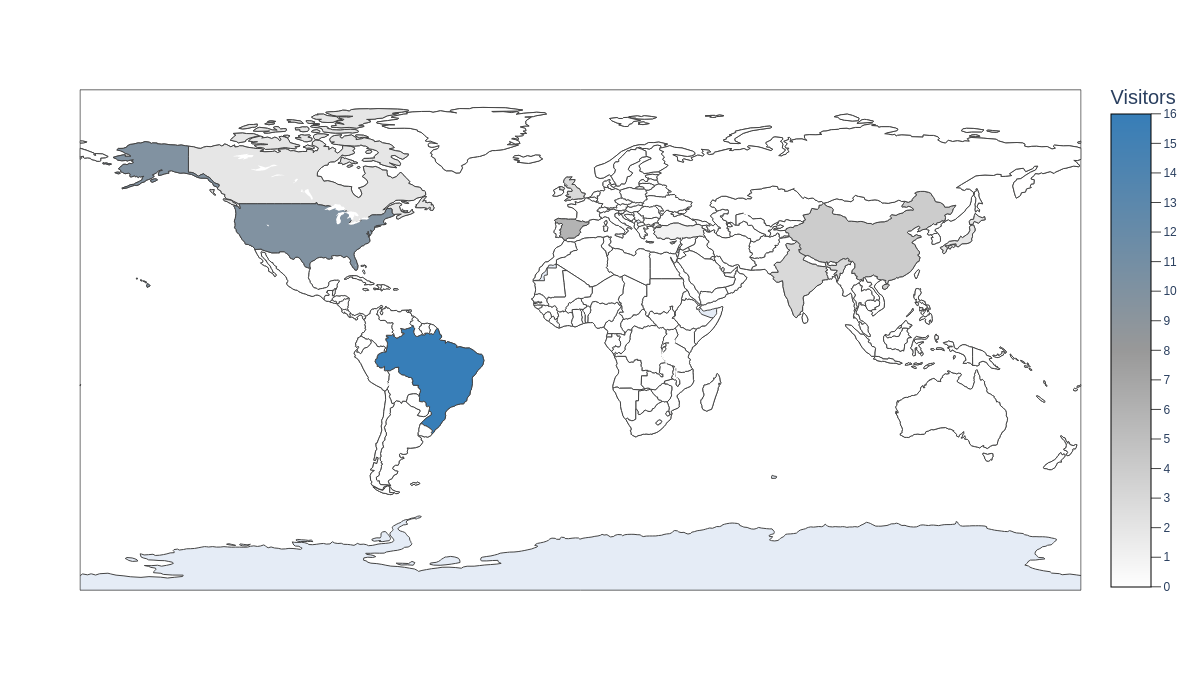
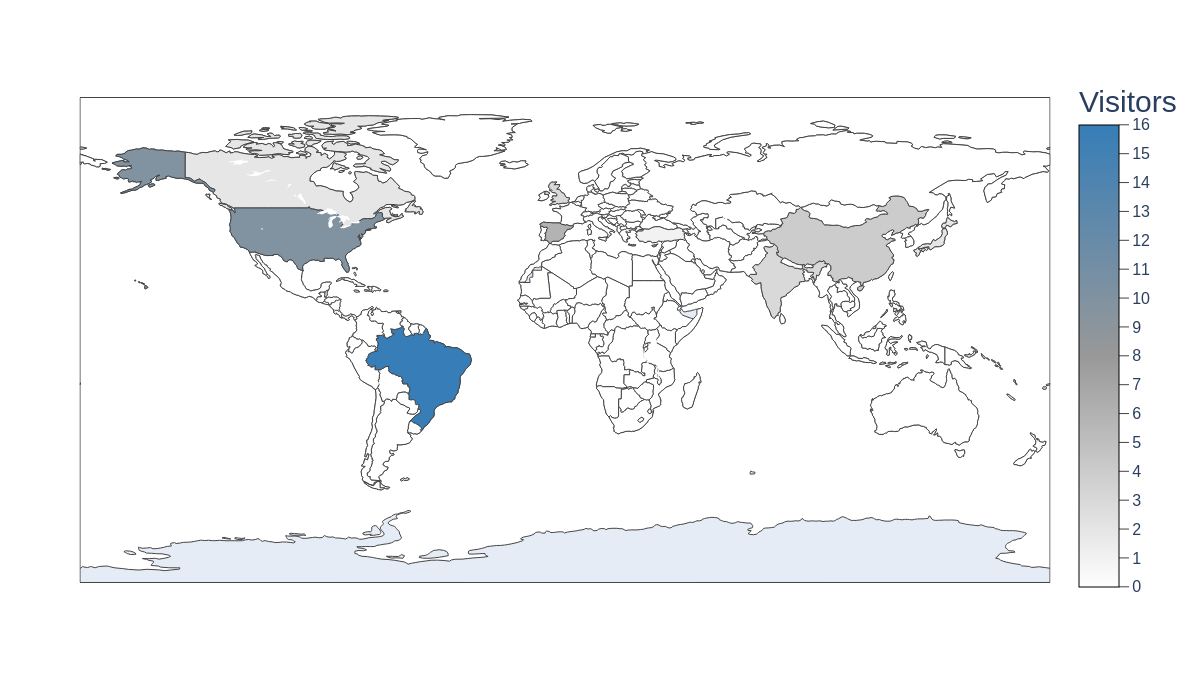
Update Monitoring and Analytics of KVFinder-web

Changed region(s): [[0.0617, 0.12, 0.9867, 0.87], [0.6167, 0.72, 0.8017, 0.78], [0.74, 0.6, 0.8017, 0.63]]

diff --git a/phdthesis.tex b/phdthesis.tex
@@ -1230,16 +1230,20 @@ Tracking the job submission provides valuable information about system usage pat
 
 \begin{figure}[h]
   \centering
-  \includegraphics[scale=0.5]{images/clarityjobs-executed-per-month.png}
+  \includegraphics[scale=0.5]{images/jobs-executed-per-month.png}
   \caption[Jobs executed in KVFinder-web]{\textbf{Jobs executed in KVFinder-web.} Accepted jobs executed in KVFinder-web per month and their cumulative sum.}
   \label{fig:job-execution}
 \end{figure}
 
 Understanding user behavior through analytics is crucial for developing KVFinder-web, guiding iterative improvements, optimizing interface design, identifying popular features, and ensuring a smooth and efficient user experience. To perform user behavior analytics, the Cloudflare service (\url{https://www.cloudflare.com}) was initially explored for this purpose, but the collected data did not provide the desired insights, due to Cloudflare having a broader focus, offering services related to content delivery, security, and performance. Its monitoring capabilities are more centered around overall website health and security. From 21 October to 21 November, Cloudflare counted 1,130 visitors, mainly from United States, Netherlands, Germany, China, Spain and Portugal. Subsequently, Microsoft Clarity (\url{https://clarity.microsoft.com}) emerged as a more suitable solution for monitoring user behavior within the KVFinder-web platform. Microsoft Clarity is is a privacy-focused solution that does not collect any personal information, such as IP addresses or cookies. Leveraging Microsoft Clarity allows for a deeper analysis of user interactions, providing valuable insights into how individuals navigate and engage with the application, \ie, presenting click tracking, heatmaps of user engagement, masked session recordings and engagement metrics. Since its implementation, from 21 November to 1 December, KVFinder-web received 49 visitors (Figure \ref{fig:clarity-analytics}), with 28 unique users. The average active time spent in a session was 7.7 minutes out of 12.8 minutes in total, and the scroll depth is 92.57\%. Since its implementation, Microsoft Clarity has provided valuable insights into user behavior, that can be used to refine the user experience and address potential pain points. Therefore, the data collected so far indicates that KVFinder-web is helping to democratize parKVFinder in the scientific community, with users from all over the world, with an an average of $\sim$141 jobs per month since official release.
 
+% TODO: Finalizar antes do envio
+
 \begin{figure}[h]
   \centering
-  % \includegraphics[scale=1]{images/clarity-analytics.png}
+  \includegraphics[scale=0.375]{images/clarity-monitoring/clarity-countries.png} \\
+  \includegraphics[scale=0.49]{images/clarity-monitoring/clarity-os.png}
+  \includegraphics[scale=0.49]{images/clarity-monitoring/clarity-browsers.png}
   \caption[KVFinder-web user behaviour analytics]{\textbf{KVFinder-web user behaviour analytics.} \textbf{(A)} Countries. \textbf{(B)} Operating systems. \textbf{(C)} Browsers.}
   \label{fig:clarity-analytics}
 \end{figure}

diff --git a/images/clarity-monitoring/world-map.py b/images/clarity-monitoring/world-map.py
@@ -66,7 +66,8 @@ fig.update_layout(
 )
 
 fig.update_coloraxes(
-    colorbar_title_font_size=20,
+    colorbar_title_font_size=30,
+    colorbar_tickfont_size=16
 )
 
 plt.tight_layout()

diff --git a/images/kvweb-usage/kvweb-usage.py b/images/kvweb-usage/kvweb-usage.py
@@ -61,6 +61,7 @@ for rect in rects:
         "%d" % int(height),
         ha="center",
         va="bottom",
+        size=20
     )
 
 # Cumulative sum
